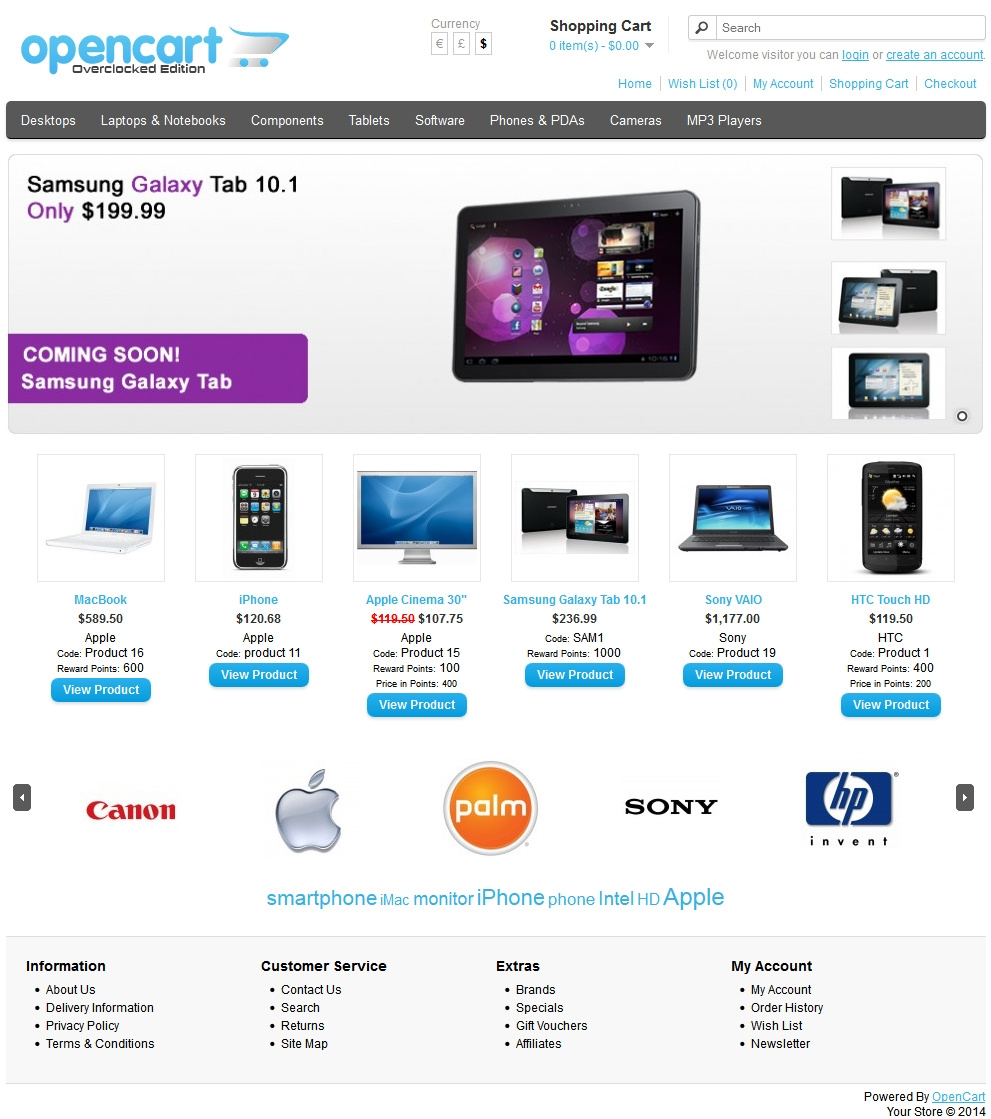
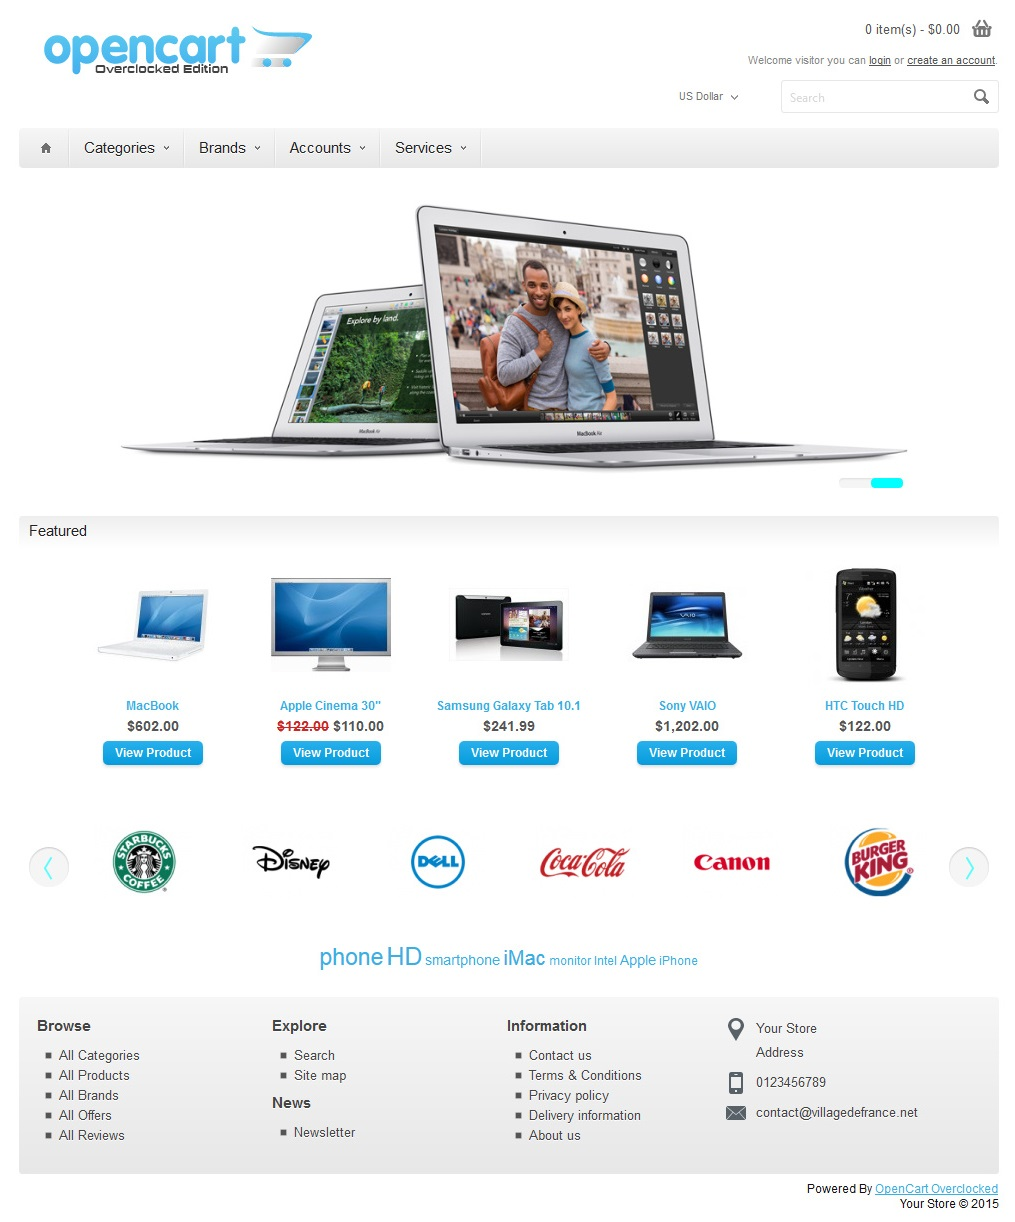
Readme updated for release
Readme updated for release

diff --git a/README.md b/README.md
@@ -24,22 +24,27 @@ Latest Scripts:
 - jQuery UI 1.11.4.
 - CKEditor 4.5.1 Full.
 - jQuery Flot 0.8.2.
+- Camera 1.3.4.
+- Slick 1.5.8.
 - ...
 
 Main Features:
+- Custom Menu System.
+- Custom Footer System.
+- Responsive Default Theme.
+- Template Option Control System.
 - "Save and Continue" for all essential Admin forms.
+- "Filter Name" for all essential Admin forms.
 - Full Page Image Manager, with multi-uploads.
-- Preference Tab in Setting, for extra options.
-- Configuration Page: displays the hosting server settings.
-- Database Page: optimize, repair tables and convert storage engine.
-- Auto-complete optional for Product and Category Forms.
-- Zoom Lens viewer for product images (optional).
-- Opencart favicon for Admin.
-- Cache Managers.
-- News / Blog.
+- Cache Managers for Files and Images.
+- Integrated News (Blog).
 - ... and more!
 
-Coming soon in 1.7.0.0:
+New in 1.7.0.0 (Current Release):
+- Custom Menu System.
+- Custom Footer System.
+- Responsive Default Theme.
+- Template Control System.
 - VQmod and VQmanager.
 - Improved Upgrade script.
 - Improved Install script.
@@ -53,7 +58,7 @@ Coming soon in 1.7.0.0:
 - Bug fixes ...
 - ...
 
-New in v1.6.5.0 (Current Release):
+New in v1.6.5.0:
 - All fixes from Community Edition RC1/2 applied.
 - Database CSV Import/Export.
 - Updated System files.
@@ -64,7 +69,6 @@ New in v1.6.4.0:
 - Express Checkout.
 - All Product Wall page.
 - Custom Payment labels.
-- Import/Export tables (CSV).
 - Contact us Email log.
 - Improved Installer.
 - Improved Captcha.
